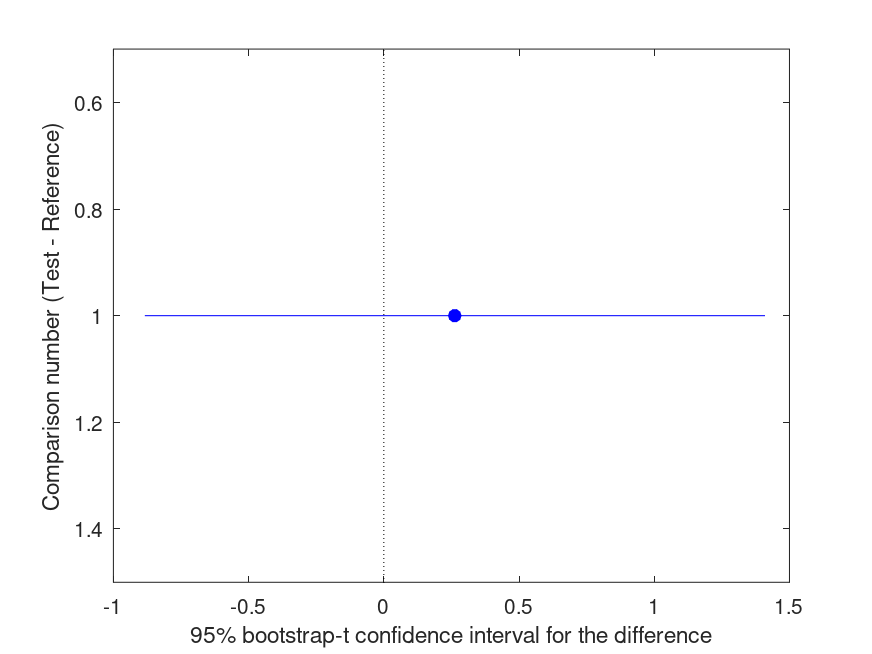
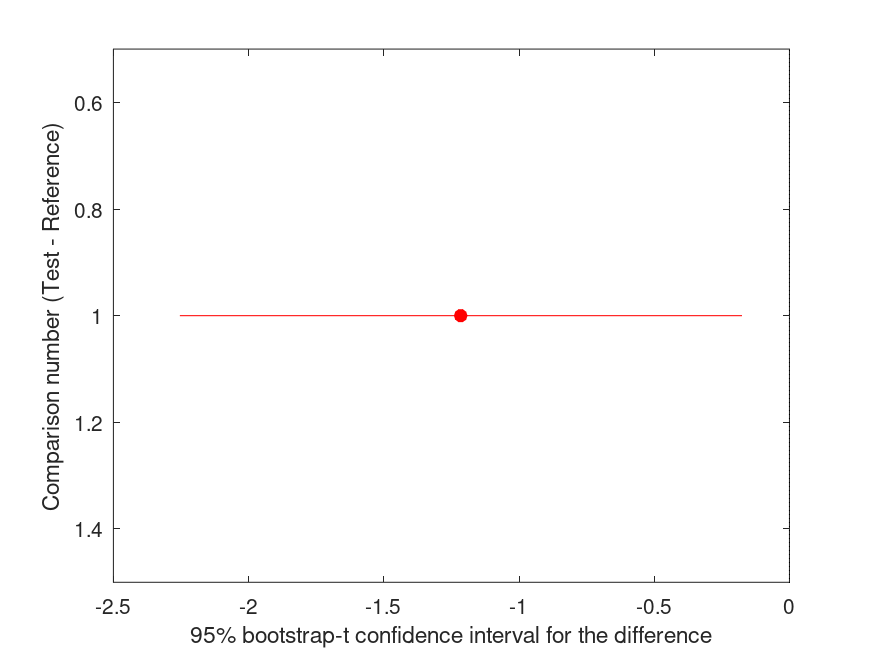
updated the manual

diff --git a/docs/function/bootknife.html b/docs/function/bootknife.html
@@ -223,11 +223,11 @@ Bootstrap settings:
  Number of resamples (outer): 1999 
  Number of resamples (inner): 0 
  Confidence interval (CI) type: Expanded bias-corrected and accelerated (BCa) 
- Nominal coverage (and the percentiles used): 95% (1.3%, 97.2%)
+ Nominal coverage (and the percentiles used): 95% (1.2%, 97.1%)
 
 Bootstrap Statistics: 
  original     bias         std_error    CI_lower     CI_upper  
- +29.65       -2.842e-14   +2.695       +23.35       +34.56</pre>
+ +29.65       +5.684e-14   +2.608       +23.67       +34.38</pre>
 </div>
 
 <h3><a name="2">Demonstration 2</a></h3>
@@ -253,11 +253,11 @@ Bootstrap settings:
  Number of resamples (outer): 1999 
  Number of resamples (inner): 199 
  Confidence interval (CI) type: Calibrated percentile
- Nominal coverage (and the percentiles used): 95% (0.9%, 98.1%)
+ Nominal coverage (and the percentiles used): 95% (1.2%, 97.8%)
 
 Bootstrap Statistics: 
  original     bias         std_error    CI_lower     CI_upper  
- +29.65       -1.208e-13   +2.797       +22.95       +35.05</pre>
+ +29.65       +0.000       +2.602       +23.16       +34.62</pre>
 </div>
 
 <h3><a name="3">Demonstration 3</a></h3>
@@ -284,11 +284,11 @@ Bootstrap settings:
  Number of resamples (outer): 1999 
  Number of resamples (inner): 199 
  Confidence interval (CI) type: Calibrated percentile
- Nominal coverage (and the percentiles used): 95% (3.0%, 97.7%)
+ Nominal coverage (and the percentiles used): 95% (2.3%, 96.9%)
 
 Bootstrap Statistics: 
  original     bias         std_error    CI_lower     CI_upper  
- +30.86       -0.006010    +2.849       +25.06       +36.65</pre>
+ +30.86       -0.03907     +2.909       +24.98       +36.32</pre>
 </div>
 
 <h3><a name="4">Demonstration 4</a></h3>
@@ -317,7 +317,7 @@ Bootstrap settings:
 
 Bootstrap Statistics: 
  original     bias         std_error    CI_lower     CI_upper  
- +171.5       -6.829       +43.16       +95.97       +237.3</pre>
+ +171.5       -6.601       +42.36       +97.91       +236.7</pre>
 </div>
 
 <h3><a name="5">Demonstration 5</a></h3>
@@ -341,11 +341,11 @@ Bootstrap settings:
  Number of resamples (outer): 1999 
  Number of resamples (inner): 0 
  Confidence interval (CI) type: Bias-corrected and accelerated (BCa) 
- Nominal coverage (and the percentiles used): 90% (13.1%, 98.9%)
+ Nominal coverage (and the percentiles used): 90% (13.0%, 98.9%)
 
 Bootstrap Statistics: 
  original     bias         std_error    CI_lower     CI_upper  
- +171.5       -7.292       +43.98       +114.3       +272.9</pre>
+ +171.5       -7.165       +43.31       +115.1       +266.0</pre>
 </div>
 
 <h3><a name="6">Demonstration 6</a></h3>
@@ -372,11 +372,11 @@ Bootstrap settings:
  Number of resamples (outer): 1999 
  Number of resamples (inner): 199 
  Confidence interval (CI) type: Calibrated percentile (equal-tailed)
- Nominal coverage (and the percentiles used): 90% (2.3%, 97.7%)
+ Nominal coverage (and the percentiles used): 90% (2.2%, 97.8%)
 
 Bootstrap Statistics: 
  original     bias         std_error    CI_lower     CI_upper  
- +171.5       -6.601       +45.18       +87.67       +255.0</pre>
+ +171.5       -7.512       +44.49       +85.06       +254.2</pre>
 </div>
 
 <h3><a name="7">Demonstration 7</a></h3>
@@ -402,11 +402,11 @@ Bootstrap settings:
  Number of resamples (outer): 1999 
  Number of resamples (inner): 199 
  Confidence interval (CI) type: Calibrated percentile
- Nominal coverage (and the percentiles used): 90% (12.9%, 99.5%)
+ Nominal coverage (and the percentiles used): 90% (11.4%, 99.4%)
 
 Bootstrap Statistics: 
  original     bias         std_error    CI_lower     CI_upper  
- +171.5       -7.575       +44.09       +115.1       +283.2</pre>
+ +171.5       -7.546       +44.21       +112.9       +268.2</pre>
 </div>
 
 <h3><a name="8">Demonstration 8</a></h3>
@@ -433,8 +433,8 @@ Bootstrap settings:
 
 Bootstrap Statistics: 
  original     bias         std_error    CI_lower     CI_upper  
- +0.2244      -0.02686     +0.3103      -0.2407      +0.7979    
- +0.02173     +0.02428     +0.3208      -0.4739      +0.5589</pre>
+ -0.4185      +0.002533    +0.1723      -0.7220      -0.1497    
+ +0.3506      -0.01170     +0.1644      +0.09991     +0.6321</pre>
 </div>
 
 <h3><a name="9">Demonstration 9</a></h3>
@@ -461,11 +461,11 @@ Bootstrap settings:
  Number of resamples (outer): 1999 
  Number of resamples (inner): 0 
  Confidence interval (CI) type: Bias-corrected and accelerated (BCa) 
- Nominal coverage (and the percentiles used): 95% (0.6%, 93.8%)
+ Nominal coverage (and the percentiles used): 95% (0.5%, 93.7%)
 
 Bootstrap Statistics: 
  original     bias         std_error    CI_lower     CI_upper  
- +0.7764      -0.005985    +0.1371      +0.3509      +0.9502</pre>
+ +0.7764      -0.007557    +0.1400      +0.3134      +0.9483</pre>
 </div>
 
 <h3><a name="10">Demonstration 10</a></h3>
@@ -563,27 +563,7 @@ Bootstrap Statistics:
    %<<<<<<<<<<<<<<<<<<<<<<<<<<<<<<<<<<<<<<<<<<<<<<<<<<<<<<<<<<<<<<<<<<<<<<<
  
  end</pre>
-<p>Produces the following output</p>
-<pre class="example">Summary of nonparametric bootstrap estimates of bias and precision
-******************************************************************************
-
-Bootstrap settings: 
- Function: @(X, miles) mnrfit (X, miles, 'model', 'ordinal')
- Resampling method: Balanced, bootknife resampling 
- Number of resamples (outer): 1999 
- Number of resamples (inner): 0 
- Confidence interval (CI) type: Bias-corrected and accelerated (BCa) 
- Nominal coverage: 95%
-
-Bootstrap Statistics: 
- original     bias         std_error    CI_lower     CI_upper  
- -16.69       -0.5168      +2.137       -20.46       -12.24     
- -11.72       -0.3592      +1.862       -15.08       -7.883     
- -8.061       -0.2570      +1.768       -11.39       -4.467     
- +0.1048      +0.005554    +0.09117     -0.07452     +0.2804    
- +0.01034     +0.0007293   +0.006650    -0.002291    +0.02328   
- +0.06452     +0.002379    +0.01689     +0.03089     +0.09543   
- +0.001664    +1.194e-06   +0.0007440   +0.0002257   +0.003140</pre>
+<p>gives an example of how 'bootknife' is used.</p>
 </div>
 
 <h3><a name="11">Demonstration 11</a></h3>

diff --git a/docs/function/bootclust.html b/docs/function/bootclust.html
@@ -170,11 +170,11 @@ Bootstrap settings:
  Resampling method: Balanced, bootstrap cluster resampling 
  Number of resamples: 1999 
  Confidence interval (CI) type: Expanded bias-corrected and accelerated (BCa) 
- Nominal coverage (and the percentiles used): 95% (1.1%, 97.2%)
+ Nominal coverage (and the percentiles used): 95% (1.1%, 97.3%)
 
 Bootstrap Statistics: 
  original     bias         std_error    CI_lower     CI_upper  
- +29.65       -3.197e-14   +2.564       +23.43       +34.48</pre>
+ +29.65       +3.908e-14   +2.555       +23.45       +34.47</pre>
 </div>
 
 <h3><a name="2">Demonstration 2</a></h3>
@@ -200,11 +200,11 @@ Bootstrap settings:
  Resampling method: Balanced, bootstrap cluster resampling 
  Number of resamples: 1999 
  Confidence interval (CI) type: Expanded bias-corrected and accelerated (BCa) 
- Nominal coverage (and the percentiles used): 95% (1.1%, 98.7%)
+ Nominal coverage (and the percentiles used): 95% (1.0%, 98.6%)
 
 Bootstrap Statistics: 
  original     bias         std_error    CI_lower     CI_upper  
- +29.65       -0.02999     +2.920       +22.64       +35.86</pre>
+ +29.65       -0.03501     +2.887       +22.71       +35.76</pre>
 </div>
 
 <h3><a name="3">Demonstration 3</a></h3>
@@ -232,7 +232,7 @@ Bootstrap settings:
 
 Bootstrap Statistics: 
  original     bias         std_error    CI_lower     CI_upper  
- +171.5       -6.379       +42.98       +96.61       +239.1</pre>
+ +171.5       -6.402       +42.08       +97.45       +237.2</pre>
 </div>
 
 <h3><a name="4">Demonstration 4</a></h3>
@@ -262,7 +262,7 @@ Bootstrap settings:
 
 Bootstrap Statistics: 
  original     bias         std_error    CI_lower     CI_upper  
- +171.5       -9.524       +33.03       +106.0       +215.4</pre>
+ +171.5       -9.397       +33.62       +103.3       +214.4</pre>
 </div>
 
 <h3><a name="5">Demonstration 5</a></h3>
@@ -285,11 +285,11 @@ Bootstrap settings:
  Resampling method: Balanced, bootstrap cluster resampling 
  Number of resamples: 1999 
  Confidence interval (CI) type: Bias-corrected and accelerated (BCa) 
- Nominal coverage (and the percentiles used): 90% (12.6%, 98.8%)
+ Nominal coverage (and the percentiles used): 90% (12.9%, 98.9%)
 
 Bootstrap Statistics: 
  original     bias         std_error    CI_lower     CI_upper  
- +171.5       -6.608       +42.24       +117.3       +267.8</pre>
+ +171.5       -6.518       +39.86       +120.3       +258.3</pre>
 </div>
 
 <h3><a name="6">Demonstration 6</a></h3>
@@ -314,11 +314,11 @@ Bootstrap settings:
  Resampling method: Balanced, bootstrap cluster resampling 
  Number of resamples: 1999 
  Confidence interval (CI) type: Bias-corrected and accelerated (BCa) 
- Nominal coverage (and the percentiles used): 90% (13.7%, 98.8%)
+ Nominal coverage (and the percentiles used): 90% (13.3%, 98.7%)
 
 Bootstrap Statistics: 
  original     bias         std_error    CI_lower     CI_upper  
- +171.5       -9.512       +33.09       +125.0       +231.3</pre>
+ +171.5       -9.400       +33.97       +123.9       +232.2</pre>
 </div>
 
 <h3><a name="7">Demonstration 7</a></h3>
@@ -344,8 +344,8 @@ Bootstrap settings:
 
 Bootstrap Statistics: 
  original     bias         std_error    CI_lower     CI_upper  
- +0.1676      -0.02659     +0.2351      -0.1904      +0.5866    
- -0.01523     -0.0004932   +0.3110      -0.6420      +0.4239</pre>
+ -0.1157      +0.01387     +0.2774      -0.5533      +0.3625    
+ -0.3039      -0.03387     +0.1854      -0.6144      -0.05484</pre>
 </div>
 
 <h3><a name="8">Demonstration 8</a></h3>
@@ -372,8 +372,8 @@ Bootstrap settings:
 
 Bootstrap Statistics: 
  original     bias         std_error    CI_lower     CI_upper  
- +0.2743      +0.0002867   +0.2196      -0.02750     +0.7297    
- +0.1586      -0.01567     +0.1092      -0.08860     +0.2914</pre>
+ -0.3112      -0.06470     +0.1730      -0.5340      +0.005138  
+ +0.02788     -0.04489     +0.4884      -0.8635      +0.7324</pre>
 </div>
 
 <h3><a name="9">Demonstration 9</a></h3>
@@ -400,11 +400,11 @@ Bootstrap settings:
  Resampling method: Balanced, bootstrap cluster resampling 
  Number of resamples: 1999 
  Confidence interval (CI) type: Bias-corrected and accelerated (BCa) 
- Nominal coverage (and the percentiles used): 95% (1.8%, 96.8%)
+ Nominal coverage (and the percentiles used): 95% (2.0%, 97.0%)
 
 Bootstrap Statistics: 
  original     bias         std_error    CI_lower     CI_upper  
- +0.7764      -0.02391     +0.1409      +0.4128      +0.9919</pre>
+ +0.7764      -0.02432     +0.1430      +0.4065      +0.9964</pre>
 </div>
 
 <p>Package: <a href="../index.html">statistics-resampling</a></p>

diff --git a/README.html b/README.html
@@ -33,17 +33,33 @@ src="https://www.mathworks.com/images/responsive/global/open-in-matlab-online.sv
 alt="Open in MATLAB Online" /></a> or in a Jupyter Notebook with an
 Octave kernel <a
 href="https://mybinder.org/v2/gh/acpennlab/statistics-resampling-online/master?labpath=statistics-resampling.ipynb"><img
-src="https://mybinder.org/badge_logo.svg" alt="Binder" /></a>.</p>
-<p>Note that the first time you use statistics-resampling online in
-Octave with Binder it will take a few minutes to build a docker
-image.</p>
+src="https://mybinder.org/badge_logo.svg" alt="Binder" /></a>. Note that
+the first time you use statistics-resampling online in Octave with
+Binder it will take a few minutes to build a docker image.</p>
+<p>(Collaborative) student projects in GNU Octave can use the
+statistics-resampling package at <a
+href="https://octave-online.net/">Octave-Online</a>. Doing so requires
+users to download the latest release of the Source code (tar.gz) from <a
+href="https://github.com/gnu-octave/statistics-resampling/releases">here</a>
+and follow steps 2-5 of these <a
+href="https://octaveonline.uservoice.com/knowledgebase/articles/1078840-installing-custom-packages">instructions</a>.</p>
+<p>Users who prefer Jupyter and have a workflow that is collaborative
+and/or crosses over multiple programming languages may find it more
+convenient to install and use the statistics-resampling package at <a
+href="https://cocalc.com/">COCALC</a>. The approach described above (for
+Octave-Online) also applies to installing the statistics-resampling
+package via a Jupyter Notebook with an Octave kernel at COCALC.</p>
 <p>Follow the links in the ‘Quick start’ section below to obtain some
 examples of data and code to try out with the package.</p>
 <h3 id="requirements-and-dependencies">Requirements and
 dependencies</h3>
-<p>Core functions in this package are known to be compatible with
-versions of Octave 4.4.0+ and Matlab R2007a 7.4.0+. Some features of
-this package have specific dependencies:</p>
+<p>Users with greater computational demands may want to consider
+installing and running the statistics-resampling package offline.
+Installation of the statistics-resampling package has some software
+requirements. The core functions in this package require, and are known
+to be compatible with, GNU Octave (version &gt;= 4.4.0) and Matlab
+(version &gt;= R2007a 7.4.0). Some optional features of this package
+have further dependencies:</p>
 <ul>
 <li>All parallel computing options require either the parallel package
 (in Octave) or the Parallel Computing Matlab Toolbox (in Matlab).<br />

diff --git a/docs/readme.html b/docs/readme.html
@@ -54,17 +54,33 @@ src="https://www.mathworks.com/images/responsive/global/open-in-matlab-online.sv
 alt="Open in MATLAB Online" /></a> or in a Jupyter Notebook with an
 Octave kernel <a
 href="https://mybinder.org/v2/gh/acpennlab/statistics-resampling-online/master?labpath=statistics-resampling.ipynb"><img
-src="https://mybinder.org/badge_logo.svg" alt="Binder" /></a>.</p>
-<p>Note that the first time you use statistics-resampling online in
-Octave with Binder it will take a few minutes to build a docker
-image.</p>
+src="https://mybinder.org/badge_logo.svg" alt="Binder" /></a>. Note that
+the first time you use statistics-resampling online in Octave with
+Binder it will take a few minutes to build a docker image.</p>
+<p>(Collaborative) student projects in GNU Octave can use the
+statistics-resampling package at <a
+href="https://octave-online.net/">Octave-Online</a>. Doing so requires
+users to download the latest release of the Source code (tar.gz) from <a
+href="https://github.com/gnu-octave/statistics-resampling/releases">here</a>
+and follow steps 2-5 of these <a
+href="https://octaveonline.uservoice.com/knowledgebase/articles/1078840-installing-custom-packages">instructions</a>.</p>
+<p>Users who prefer Jupyter and have a workflow that is collaborative
+and/or crosses over multiple programming languages may find it more
+convenient to install and use the statistics-resampling package at <a
+href="https://cocalc.com/">COCALC</a>. The approach described above (for
+Octave-Online) also applies to installing the statistics-resampling
+package via a Jupyter Notebook with an Octave kernel at COCALC.</p>
 <p>Follow the links in the ‘Quick start’ section below to obtain some
 examples of data and code to try out with the package.</p>
 <h3 id="requirements-and-dependencies">Requirements and
 dependencies</h3>
-<p>Core functions in this package are known to be compatible with
-versions of Octave 4.4.0+ and Matlab R2007a 7.4.0+. Some features of
-this package have specific dependencies:</p>
+<p>Users with greater computational demands may want to consider
+installing and running the statistics-resampling package offline.
+Installation of the statistics-resampling package has some software
+requirements. The core functions in this package require, and are known
+to be compatible with, GNU Octave (version &gt;= 4.4.0) and Matlab
+(version &gt;= R2007a 7.4.0). Some optional features of this package
+have further dependencies:</p>
 <ul>
 <li>All parallel computing options require either the parallel package
 (in Octave) or the Parallel Computing Matlab Toolbox (in Matlab).<br />

diff --git a/docs/function/boot1way.html b/docs/function/boot1way.html
@@ -529,7 +529,7 @@ Bootstrap settings:
 -----------------------------------------------------------------------------
 | Comparison |     Test # |      Ref # | Difference |          t |        p |
 |------------|------------|------------|------------|------------|----------|
-|          1 |          2 |          1 |   -0.07931 |      -0.17 |     .852 |
+|          1 |          2 |          1 |    +0.2869 |      +0.60 |     .575 |
 
 -----------------------------------------------------------------------------
 |    GROUP # |                                       GROUP label |        N |
@@ -574,7 +574,7 @@ Bootstrap settings:
 -----------------------------------------------------------------------------
 | Comparison |     Test # |      Ref # | Difference |          t |        p |
 |------------|------------|------------|------------|------------|----------|
-|          1 |          2 |          1 |    +0.2623 |      +0.39 |     .600 |
+|          1 |          2 |          1 |     -1.216 |      -2.19 |     .030 |*
 
 -----------------------------------------------------------------------------
 |    GROUP # |                                       GROUP label |        N |

diff --git a/docs/function/bootbayes.html b/docs/function/bootbayes.html
@@ -191,7 +191,7 @@ Bootstrap settings:
 
 Posterior Statistics: 
  original     bias         median       stdev       CI_lower      CI_upper
- +184.5       -0.02210     +184.5       1.240       +182.1        +186.9</pre>
+ +184.5       +0.01413     +184.5       1.320       +181.9        +187.1</pre>
 </div>
 
 <h3><a name="2">Demonstration 2</a></h3>
@@ -228,8 +228,8 @@ Bootstrap settings:
 
 Posterior Statistics: 
  original     bias         median       stdev       CI_lower      CI_upper
- +175.5       +0.03532     +175.5       2.384       +171.1        +180.3    
- +0.1904      -0.001074    +0.1909      0.07912     +0.04160      +0.3442</pre>
+ +175.5       +0.01690     +175.5       2.396       +171.1        +180.4    
+ +0.1904      -0.0008083   +0.1919      0.08086     +0.02622      +0.3426</pre>
 </div>
 
 <p>Package: <a href="../index.html">statistics-resampling</a></p>

diff --git a/docs/function/bootmode.html b/docs/function/bootmode.html
@@ -149,9 +149,9 @@
 <p>Produces the following output</p>
 <pre class="example">ans = Summary of results:
 
-ans = H1 is 1 with p = 0.0005 so reject the null hypothesisthat there is 1 mode
+ans = H1 is 1 with p = 0.0015 so reject the null hypothesisthat there is 1 mode
 
-ans = H2 is 0 with p = 0.312 so accept the null hypothesis that there are 2 modes</pre>
+ans = H2 is 0 with p = 0.323 so accept the null hypothesis that there are 2 modes</pre>
 </div>
 
 <p>Package: <a href="../index.html">statistics-resampling</a></p>
